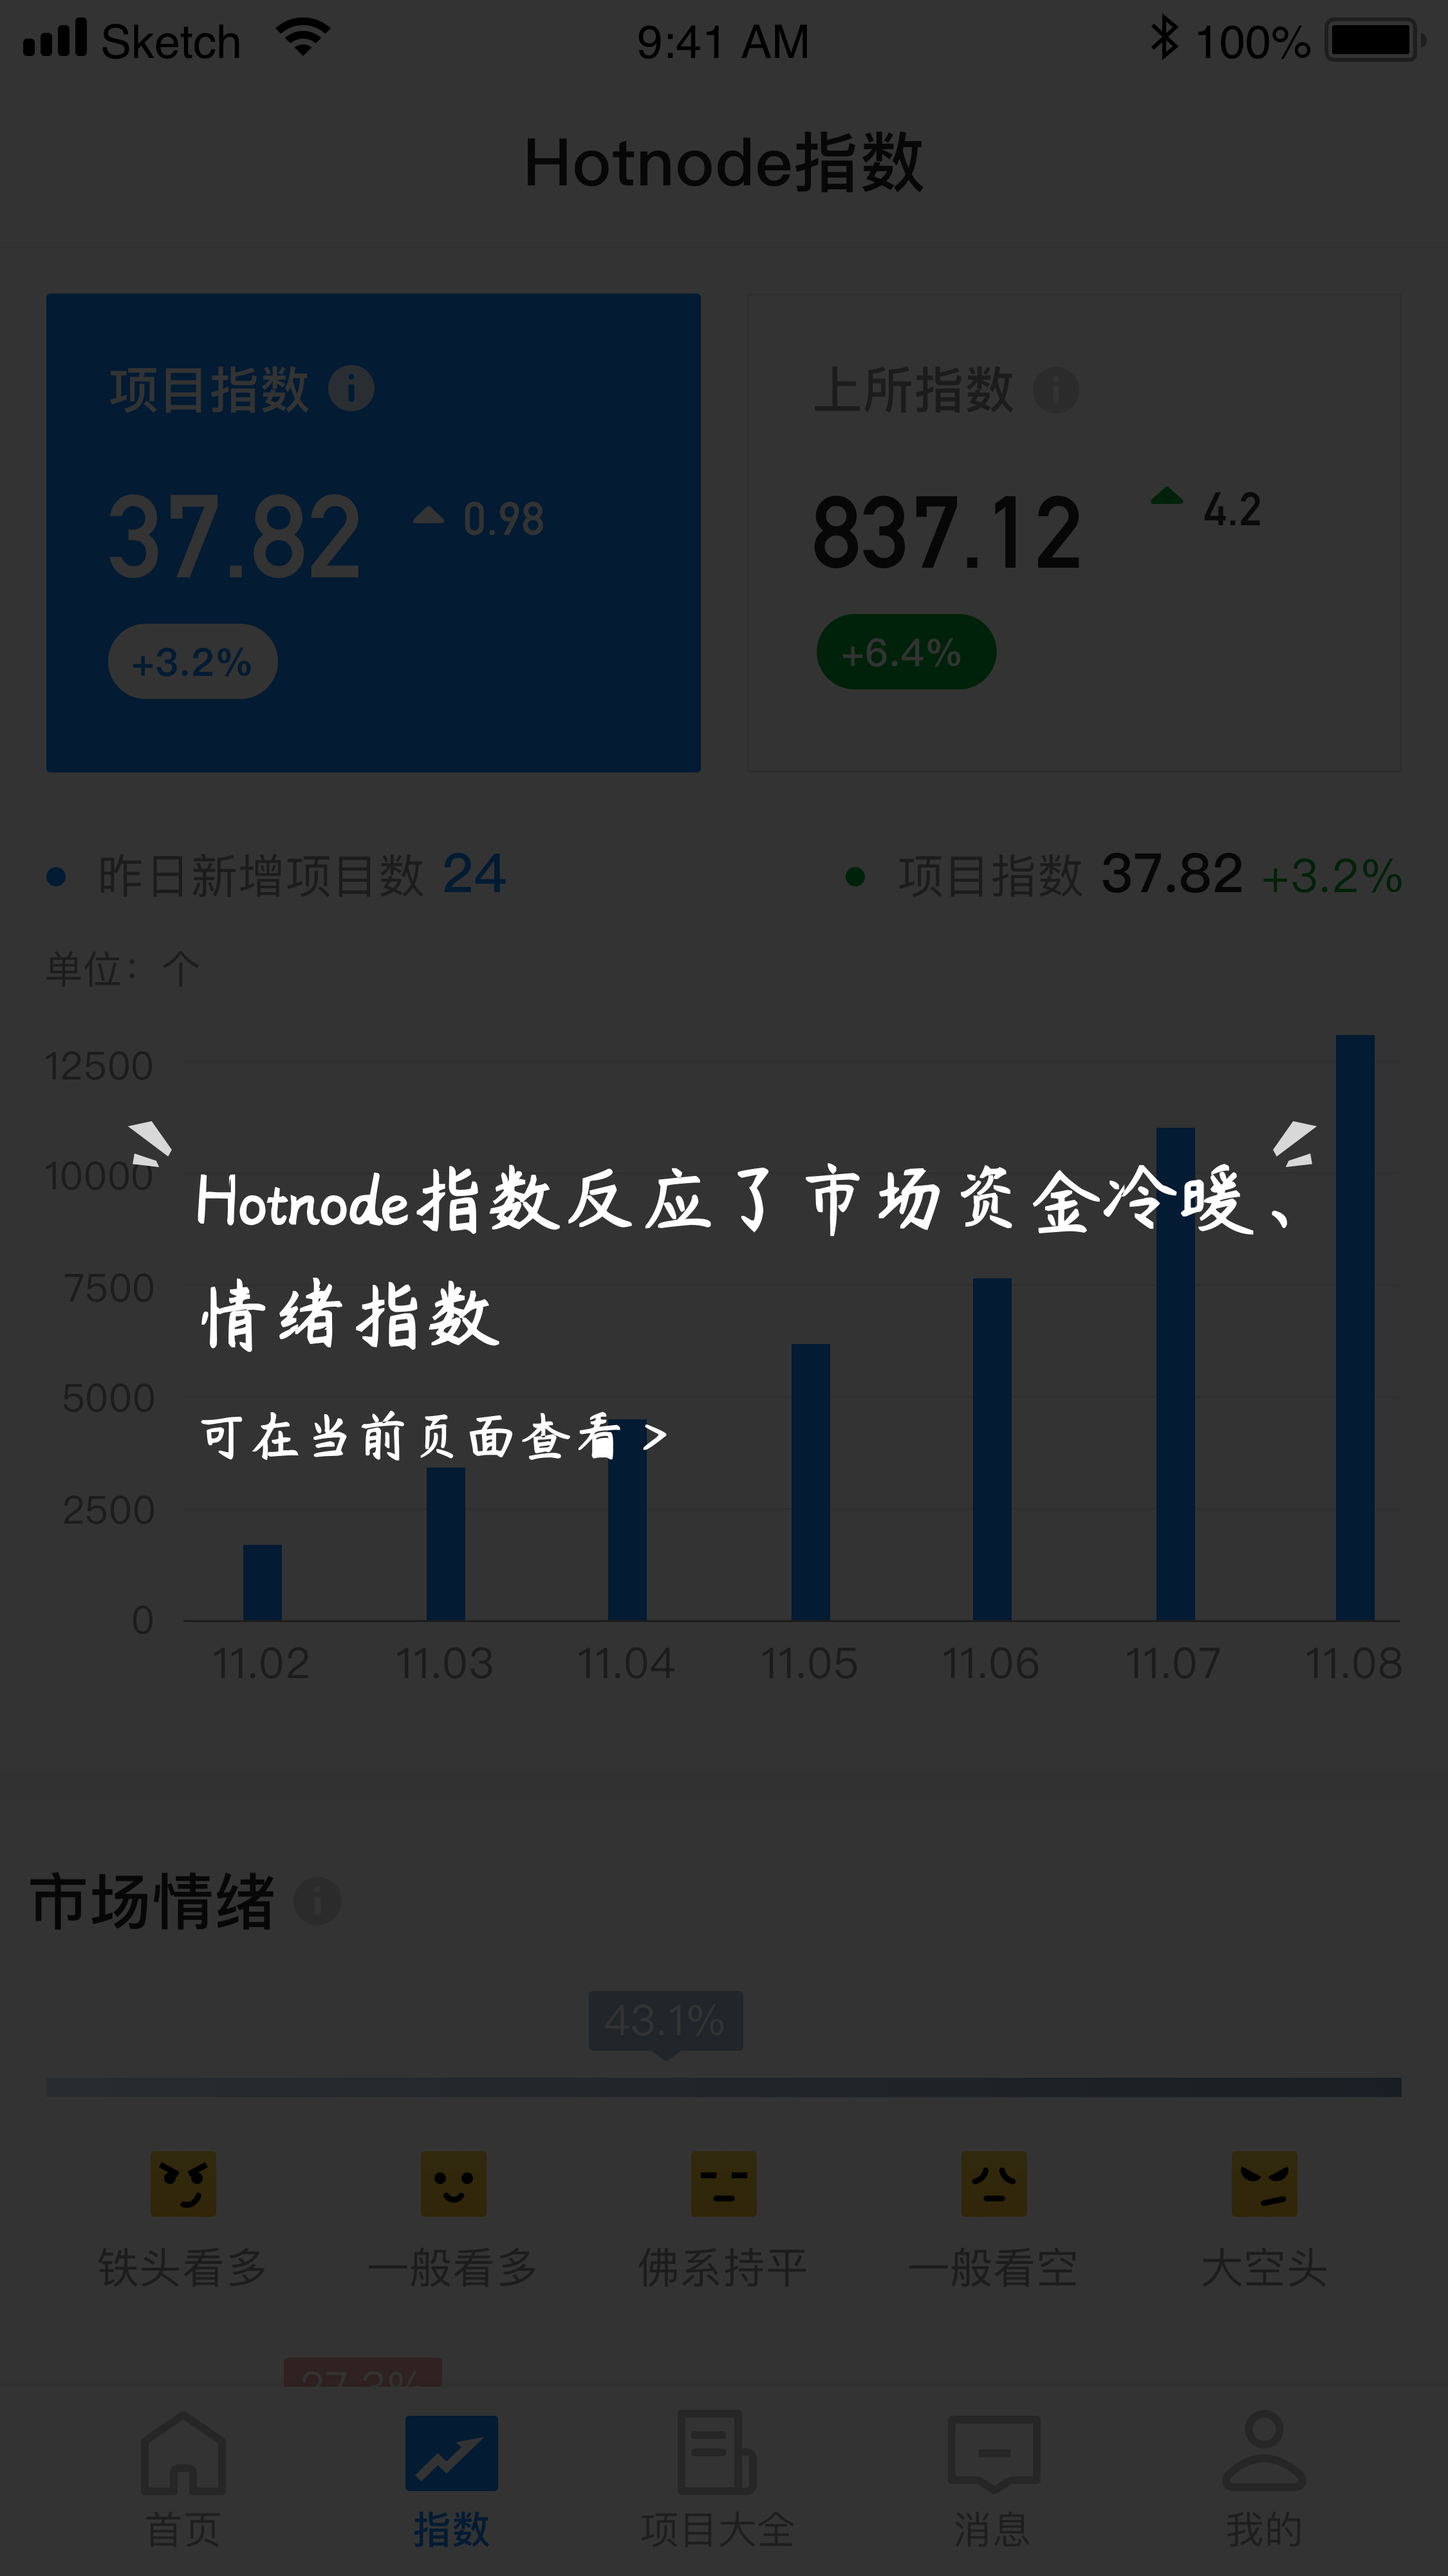
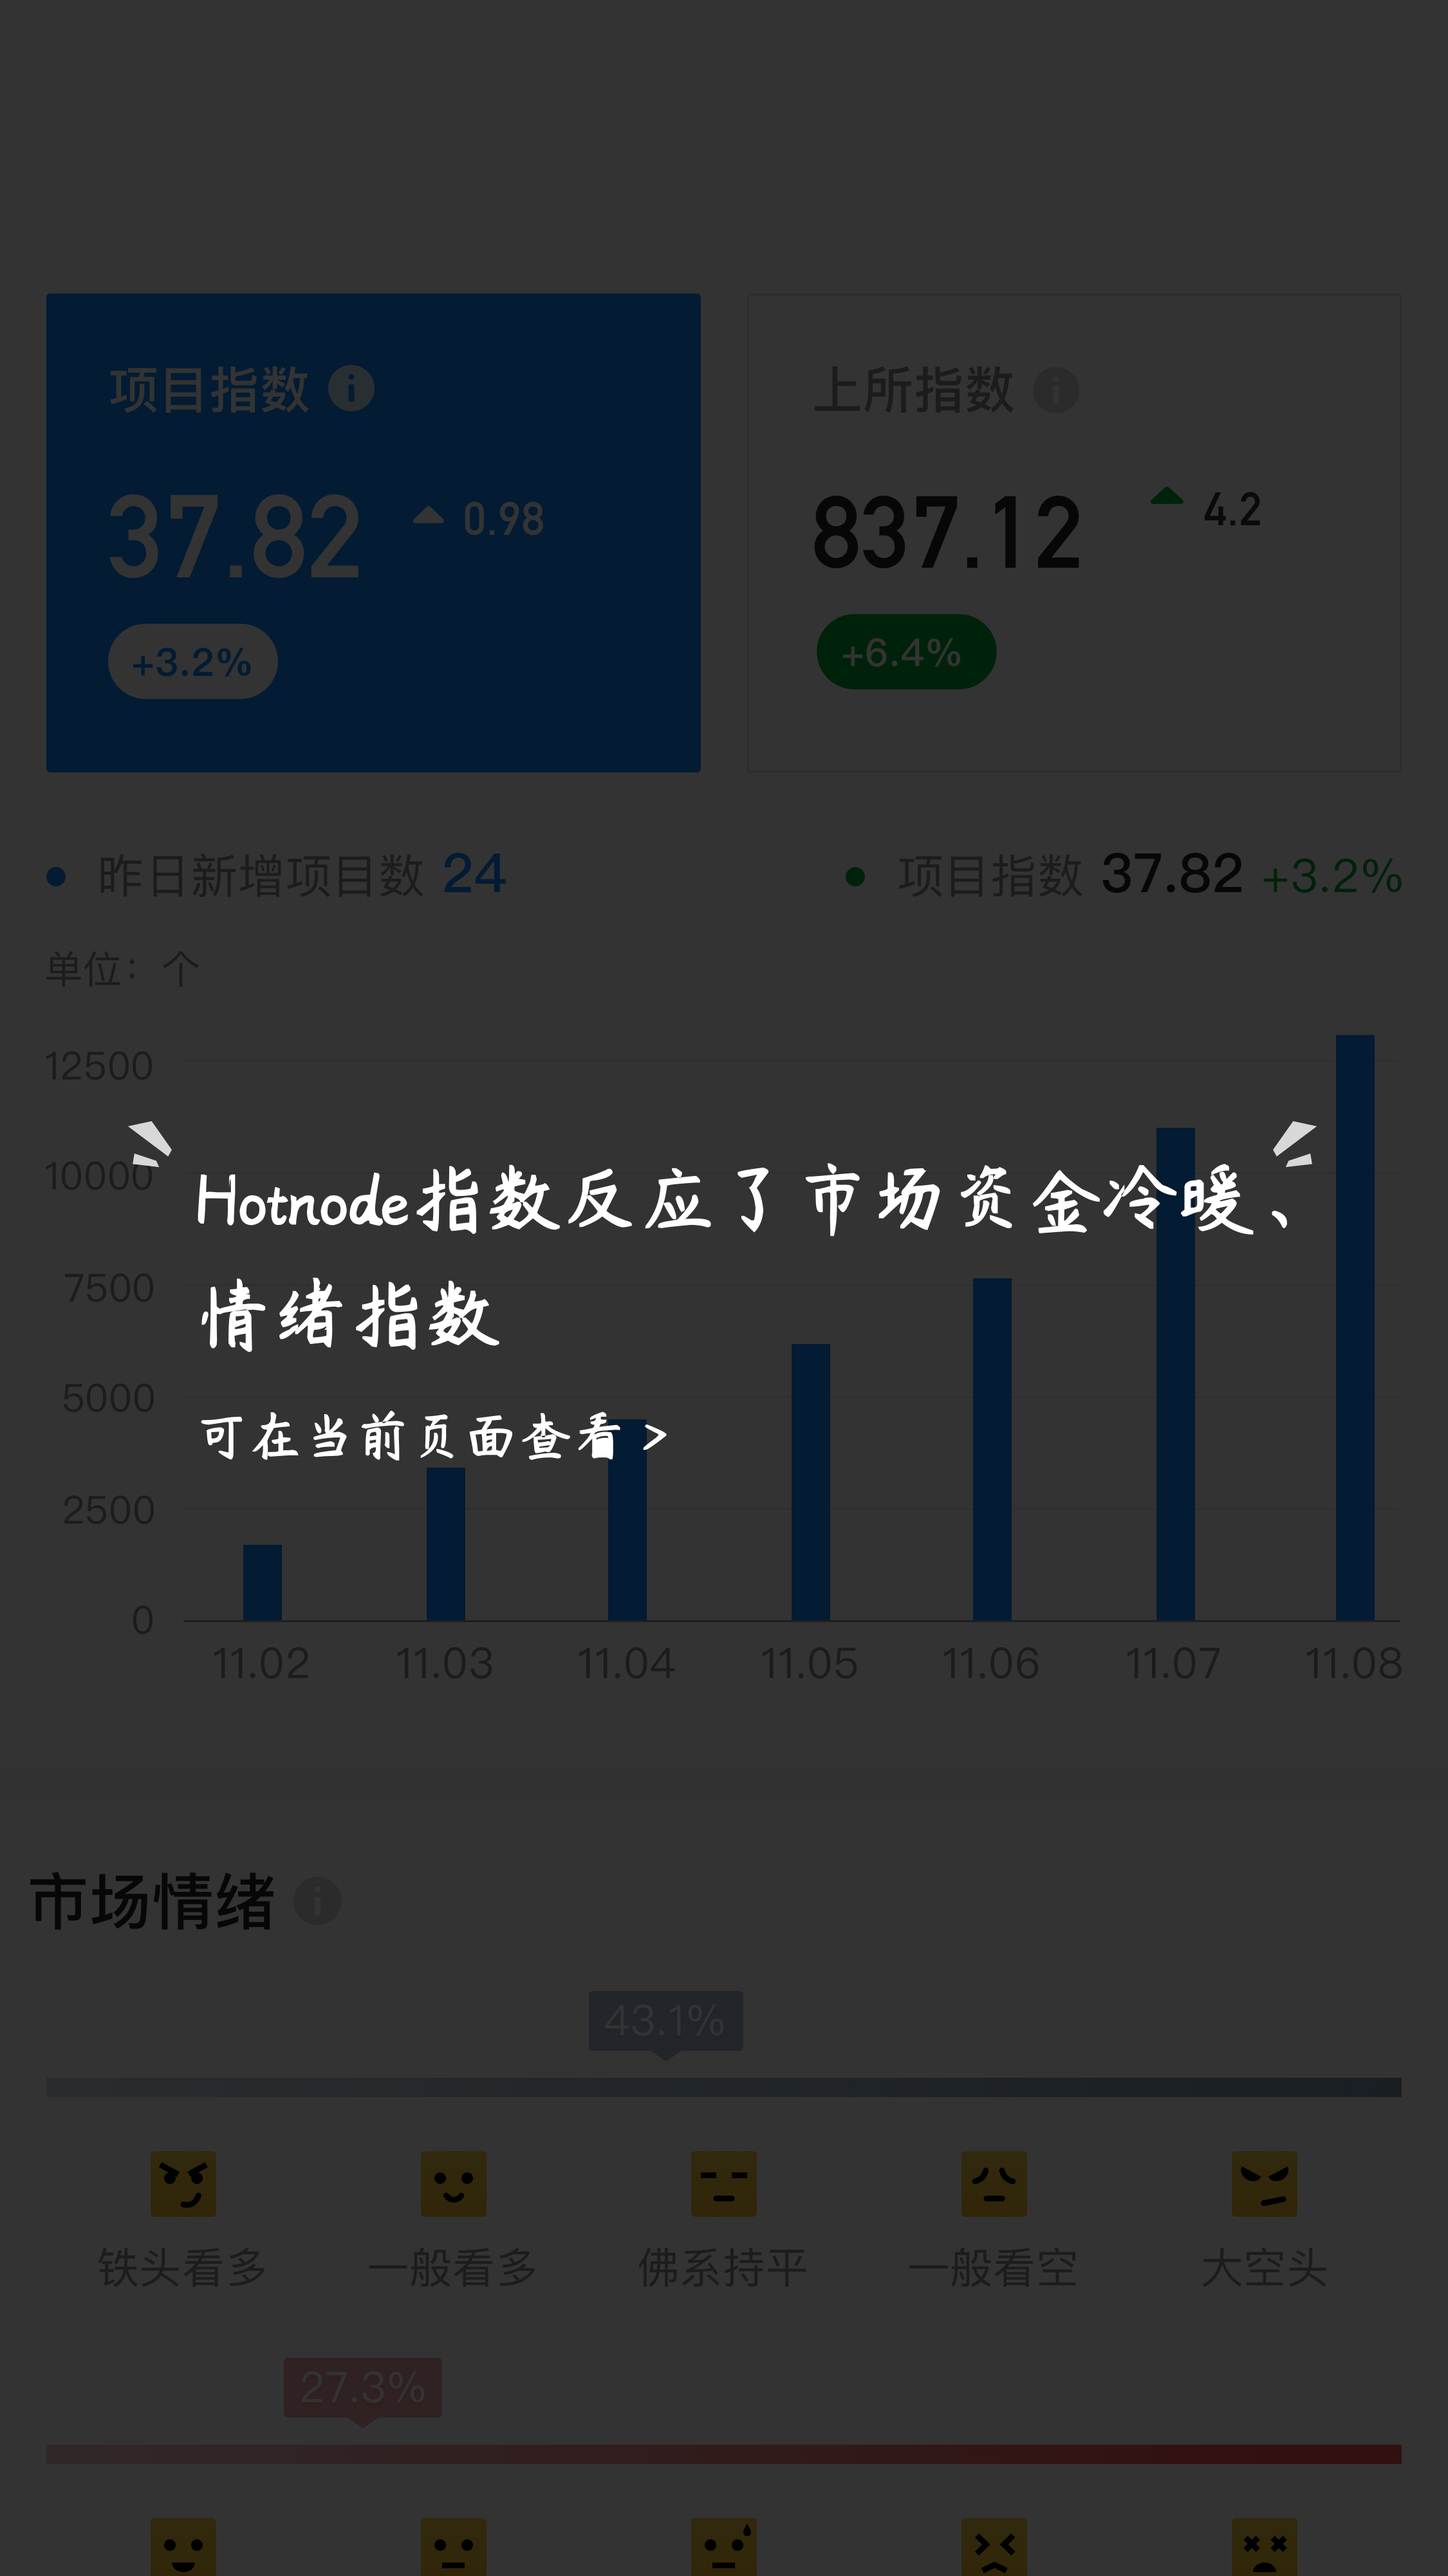
新手引导图修改

diff --git a/app/router.js b/app/router.js
@@ -786,12 +786,14 @@ class Router extends Component {
           isVisible={showGuideModal}
           useNativeDriver
           hideModalContentWhileAnimating
+          backdropOpacity={0.8}
         >
           <View style={{ alignItems: 'center' }}>
             <Image
               style={{
               width: Dimensions.get('window').width,
               height: Dimensions.get('window').height,
+                resizeMode: 'contain',
             }}
               source={guideMap[guideImage]}
             />
